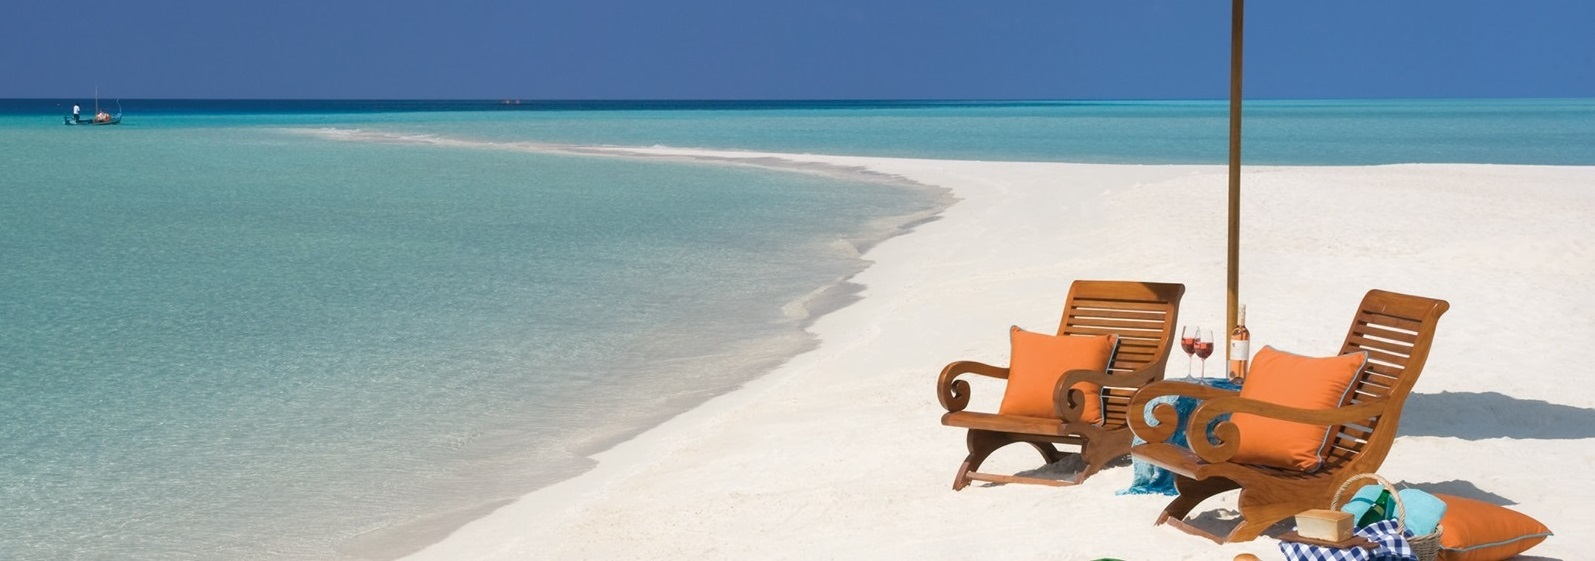
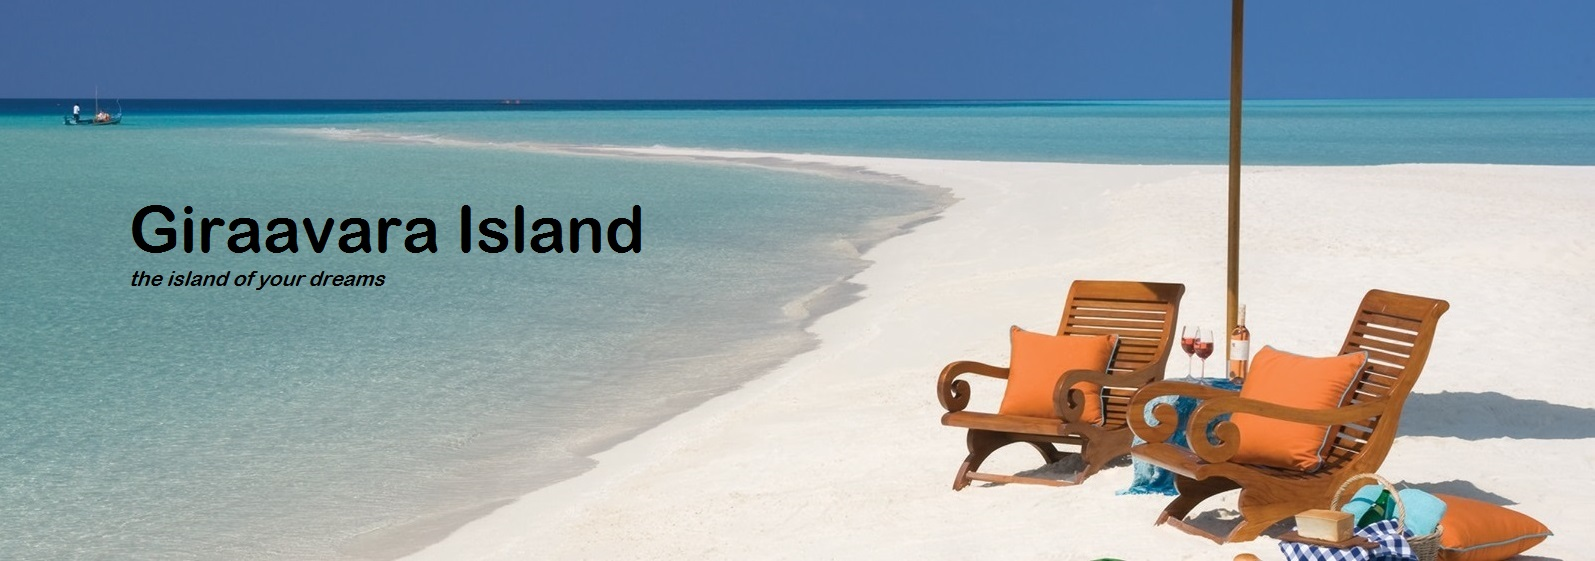
Fixed pictures, the titleText in picture is now responsive

Changed region(s): [[0.0614, 0.3636, 0.3994, 0.4545], [0.0614, 0.4848, 0.2458, 0.5152]]

diff --git a/Lab4/pages/landingPage.html b/Lab4/pages/landingPage.html
@@ -5,7 +5,7 @@
     <meta http-equiv="X-UA-Compatible" content="IE=edge">
     <meta name="viewport" content="width=device-width, initial-scale=1">
 
-    <title>Bootstrap 101</title>
+    <title>Giraavaru Island</title>
     <link href="../Styles/landingPage.css" rel="stylesheet" />
     <link href='https://fonts.googleapis.com/css?family=Open+Sans:400,400italic' rel='stylesheet' type='text/css'>
     <link href='https://fonts.googleapis.com/css?family=Montserrat' rel='stylesheet' type='text/css'>
@@ -26,17 +26,21 @@
             </div>
             <div class="navbar-collapse">
                 <ul class="nav navbar-nav navbar-right">
-                    <li class="active"><a href="#">Home</a></li> <!--'active' makes gray background-->
+                    <li><a href="#">Home</a></li> <!--'active' makes gray background-->
                     <li><a href="#">Aboute</a></li>
+                    <li><a href="#">Dream Photos</a></li>
+                    <li><a href="#">Maldive Game</a></li>
+                    <li><a href="#">Video</a></li>
                 </ul>
             </div>
         </div>
     </div>
-
     <!--jumbotron header starts here-->
     <div class="container">
         <div class="jumbotron text-center">
-            <h1>This will be my Lab 4</h1>
+            <div class="thumbnail">
+                <img src="../images/header.jpg" />
+            </div>
             <p>Bootstrap Bay is the your no1 source for your web-design and is nessesary to learn for WEB  Developers</p>
             <a href="#" class="btn btn-primary">By themes</a> <!--this class makes a 'blue' button-->
             <a href="#" class="btn btn-success">Sell themes</a> <!--this class makes a 'green' button-->
@@ -44,23 +48,23 @@
         <div class="row">
             <div class="col-md-4">
                 <a href="#" class="thumbnail"> <!--use class thumbnail when implementing images-->
-                    <img src="../images/beach3-wedding-setup.jpg" alt="Update your browser to see this" />
+                    <img src="../images/beach2.jpeg" alt="Update your browser to see this" />
                 </a>
-                <h3>Theme 1</h3>
+                <h3>Water</h3>
                 <p>Lorem ipsum dolor sit amet, consectetur adipiscing elit. Integer nec odio. Praesent libero. Sed cursus ante dapibus diam. Sed nisi. Nulla quis sem at nibh elementum imperdiet. Duis sagittis ipsum. Praesent mauris. Fusce nec tellus sed augue semper porta. Mauris massa. Vestibulum lacinia arcu eget nulla. Class aptent taciti sociosqu ad litora torquent per conubia nostra, per inceptos himenaeos.Curabitur sodales ligula in libero. Sed dignissim lacinia nunc. Curabitur tortor. Pellentesque nibh.</p>
             </div>
             <div class="col-md-4">
                 <a href="#" class="thumbnail">
-                    <img src="../images/beach2.jpeg" alt="Update your browser to see this"/>
+                    <img src="../images/UnderSea.jpeg" alt="Update your browser to see this" />
                 </a>
-                <h3>Theme 2</h3>
+                <h3>Sea</h3>
                 <p>Lorem ipsum dolor sit amet, consectetur adipiscing elit. Integer nec odio. Praesent libero. Sed cursus ante dapibus diam. Sed nisi. Nulla quis sem at nibh elementum imperdiet. Duis sagittis ipsum. Praesent mauris. Fusce nec tellus sed augue semper porta. Mauris massa. Vestibulum lacinia arcu eget nulla. Class aptent taciti sociosqu ad litora torquent per conubia nostra, per inceptos himenaeos.Curabitur sodales ligula in libero. Sed dignissim lacinia nunc. Curabitur tortor. Pellentesque nibh.</p>
             </div>
             <div class="col-md-4">
                 <a href="#" class="thumbnail">
-                    <img src="../images/UnderSea.jpeg" alt="Update your browser to see this"/>
+                    <img src="../images/beach3-wedding-setup.jpg" alt="Update your browser to see this"/>
                 </a>
-                <h3>Theme 3</h3>
+                <h3>Beach</h3>
                 <p>Lorem ipsum dolor sit amet, consectetur adipiscing elit. Integer nec odio. Praesent libero. Sed cursus ante dapibus diam. Sed nisi. Nulla quis sem at nibh elementum imperdiet. Duis sagittis ipsum. Praesent mauris. Fusce nec tellus sed augue semper porta. Mauris massa. Vestibulum lacinia arcu eget nulla. Class aptent taciti sociosqu ad litora torquent per conubia nostra, per inceptos himenaeos.Curabitur sodales ligula in libero. Sed dignissim lacinia nunc. Curabitur tortor. Pellentesque nibh.</p>
             </div>
         </div>

diff --git a/Lab4/Styles/landingPage.css b/Lab4/Styles/landingPage.css
@@ -3,7 +3,7 @@
     padding:0;
 }
 body {
-    padding-top:100px;
+    padding-top:80px;
 }
 p{
     font-family: 'Open Sans', sans-serif;
@@ -15,9 +15,8 @@ h1, h2, h3, h4, h5, h6{
     color:#FFFFFF;
 }
 .navbar-default{
-    transition-duration:1s;
+    transition-duration:0.5s;
 }
 .navbar-default:hover{
-    transition-duration:1s;
-    background-color:rgba(0, 0, 0, 0.20);
+    background-color:#a7e9eb;
 }
